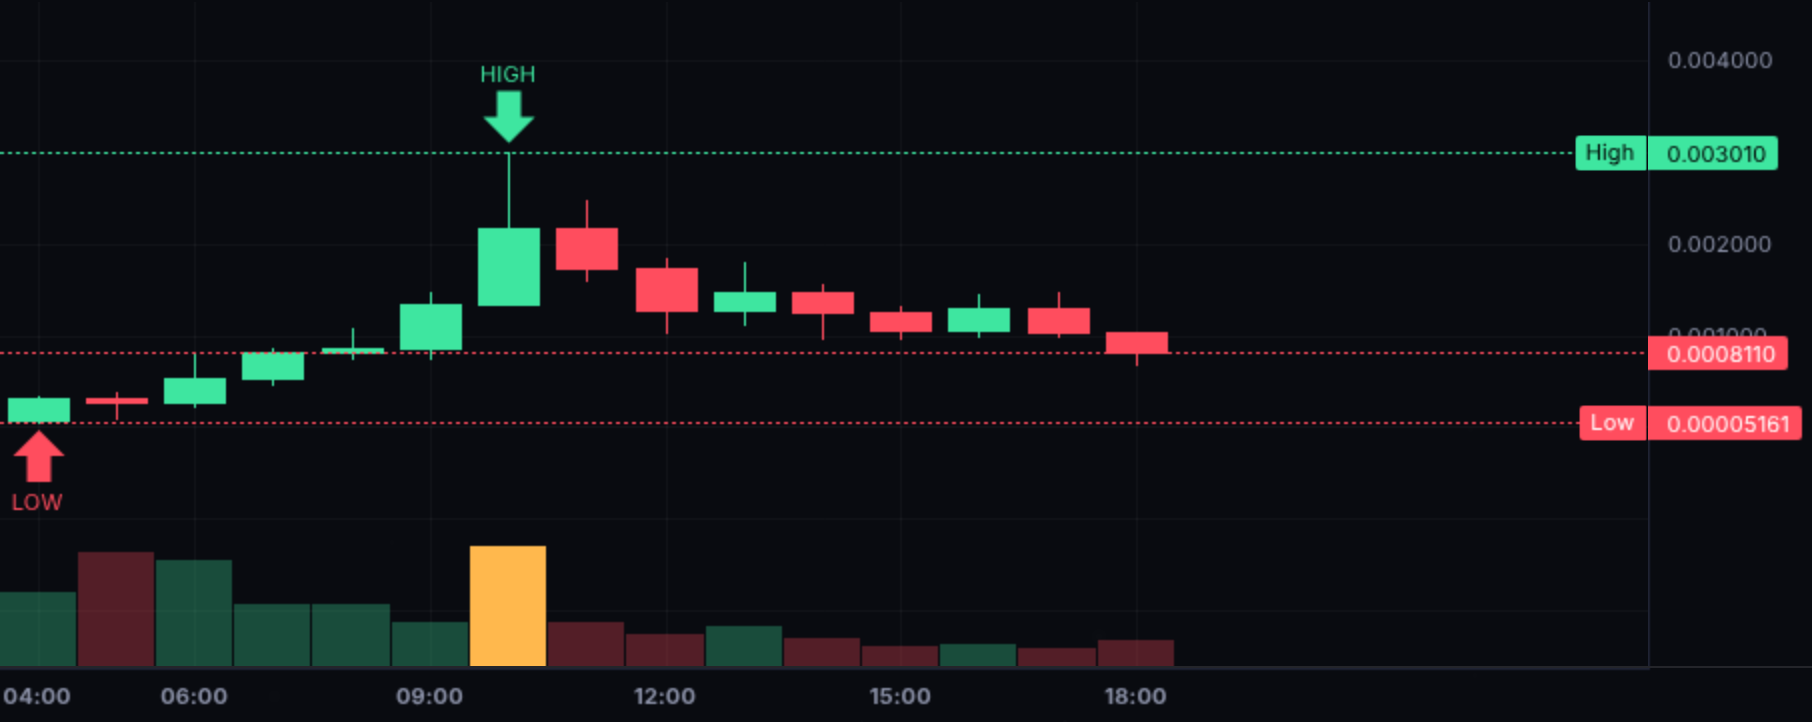
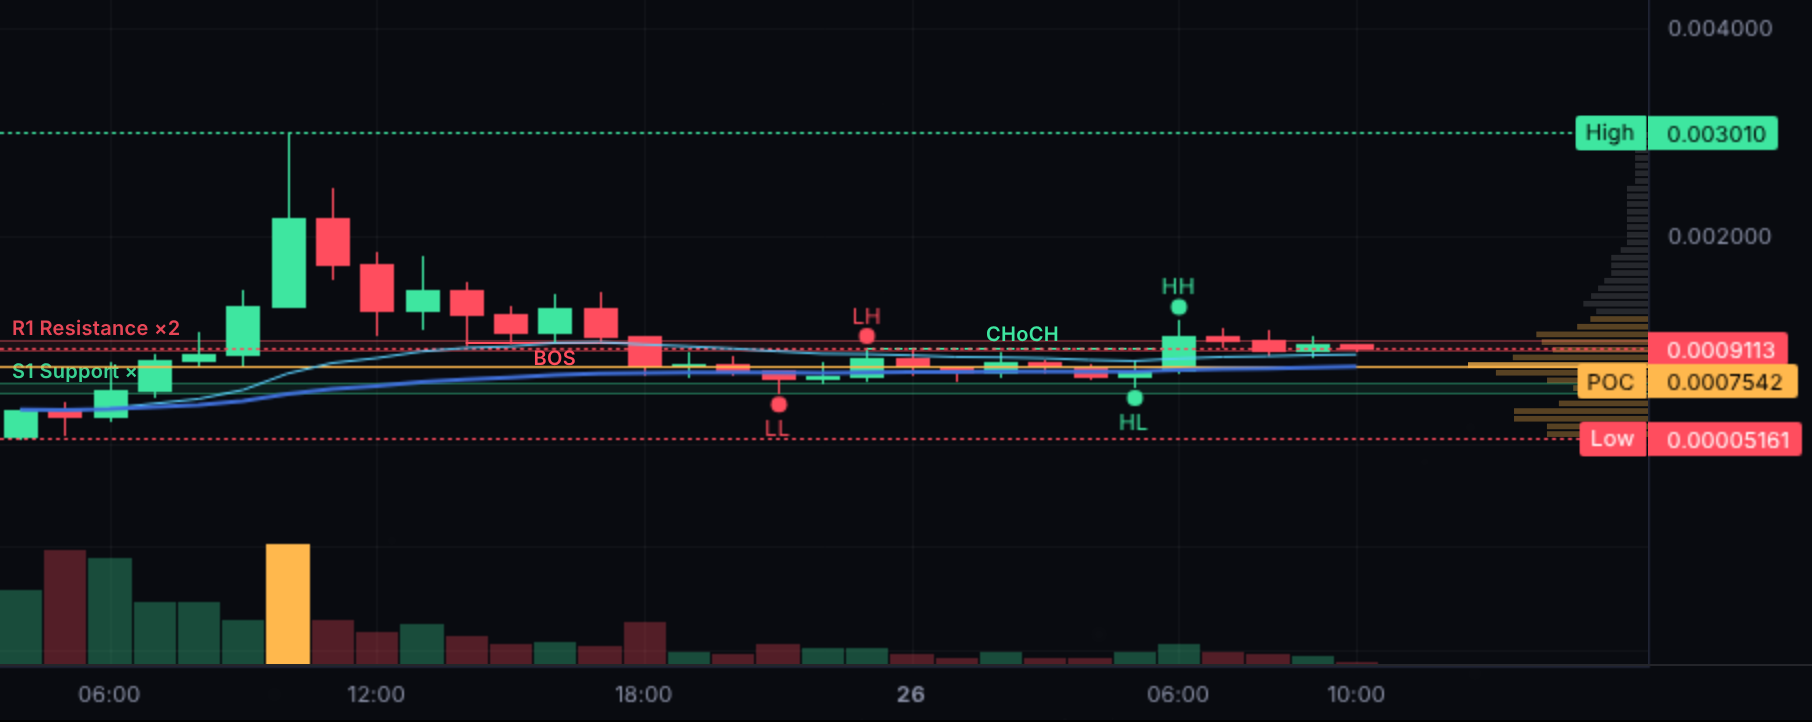
ORBIT Nov 26 catch-up posts: BASKET, Pompom, JIMMY reads + XFeature still
Claude-Session: https://claude.ai/code/session_01SweFj7NrFeNLhhhHUbiQvz

Changed region(s): [[0.0, 0.0914, 1.0, 0.7313], [0.0, 0.7313, 1.0, 0.9751], [0.9272, 0.0305, 0.989, 0.0914]]

diff --git a/remotion/src/orbit/Ad.tsx b/remotion/src/orbit/Ad.tsx
@@ -85,3 +85,44 @@ export const AdSquare: React.FC = () => {
     </AbsoluteFill>
   );
 };
+
+// X post: "Rug check. Smart money. Clear reads." — three real panels from the live app
+const Panel: React.FC<{ label: string; img: string; note: string }> = ({ label, img, note }) => (
+  <div style={{ display: "flex", flexDirection: "column", gap: 16, flex: 1 }}>
+    <Label size={15} color={C.gold}>{label}</Label>
+    <div style={{ borderRadius: 16, overflow: "hidden", border: "1px solid rgba(255,255,255,0.16)", background: "#05060a", boxShadow: "0 30px 90px rgba(0,0,0,0.8), 0 0 60px rgba(140,120,255,0.12)" }}>
+      <Img src={staticFile(img)} style={{ width: "100%", display: "block" }} />
+    </div>
+    <div style={{ fontFamily: F.thin, fontWeight: 400, fontSize: 19, color: C.ink2, lineHeight: 1.35 }}>{note}</div>
+  </div>
+);
+
+export const XFeature: React.FC = () => {
+  const { width } = useVideoConfig();
+  return (
+    <AbsoluteFill style={{ background: C.void }}>
+      <Stars density={1} k={width / 1400} />
+      <AbsoluteFill style={{ background: "radial-gradient(ellipse at 50% 0%, rgba(140,120,255,0.12), rgba(0,0,0,0) 55%)" }} />
+      <div style={{ position: "absolute", right: -60, top: -150, opacity: 0.5 }}>
+        <Galaxy size={460} t={420} glow={1.2} sat={2.5} />
+      </div>
+      <div style={{ position: "absolute", left: 80, top: 60, display: "flex", gap: 22, alignItems: "baseline" }}>
+        <Wide size={26} track={0.42} style={{ textAlign: "left", paddingLeft: 0 }}>Orbit</Wide>
+        <Label size={13}>Solana coin intelligence</Label>
+      </div>
+      <div style={{ position: "absolute", left: 80, right: 80, top: 130, fontFamily: F.thin, fontWeight: 300, fontSize: 62, color: C.ink, lineHeight: 1.1 }}>
+        Rug check. Smart money. Clear reads.
+        <div style={{ fontSize: 26, color: C.ink2, marginTop: 12 }}>All in one place.</div>
+      </div>
+      <div style={{ position: "absolute", left: 80, right: 80, top: 330, display: "flex", gap: 36, alignItems: "flex-start" }}>
+        <Panel label="Rug check" img="orbit/daily/feat-rug.png" note="Sell test, LP lock, top holders and dev wallet in seconds." />
+        <Panel label="Smart money" img="orbit/daily/feat-whales.png" note="Every whale buy and sell, with the wallet behind it." />
+        <Panel label="Clear reads" img="orbit/daily/feat-read-top.png" note="Bias, key levels and what to watch on any chart." />
+      </div>
+      <div style={{ position: "absolute", left: 80, bottom: 52 }}>
+        <Cta size={17} />
+      </div>
+      <Label size={12} color={C.faint} style={{ position: "absolute", right: 80, bottom: 60 }}>Pro free for 7 days · not financial advice</Label>
+    </AbsoluteFill>
+  );
+};

diff --git a/remotion/src/Root.tsx b/remotion/src/Root.tsx
@@ -6,7 +6,7 @@ import { OrbitLaunch, LAUNCH_FRAMES } from "./orbit/Launch";
 import { OrbitTutorial, TUTORIAL_FRAMES } from "./orbit/Tutorial";
 import { OrbitUpdate, UPDATE_FRAMES } from "./orbit/Update";
 import { OrbitPromo1, PROMO1_FRAMES } from "./orbit/Promo";
-import { AdSquare, AdWide } from "./orbit/Ad";
+import { AdSquare, AdWide, XFeature } from "./orbit/Ad";
 import { XDailyBoard, XReadCard, type DailyProps } from "./orbit/DailyX";
 import { PkgCardPro, PkgCardUltra, PkgProVideo, PkgUltraVideo, pkgFrames } from "./orbit/Package";
 import { BrandAvatar, BrandAvatarWord, BrandHero, BrandHeroClean, BrandBot, BrandOG, BrandXHeader } from "./orbit/Brand";
@@ -39,6 +39,7 @@ export const Root = () => (
     <Still id="XReadCard" component={XReadCard} width={1600} height={900} defaultProps={{ date: "", reads: [], index: 0 } as DailyProps} />
     <Still id="AdWide" component={AdWide} width={1600} height={900} />
     <Still id="AdSquare" component={AdSquare} width={1080} height={1080} />
+    <Still id="XFeature" component={XFeature} width={1600} height={900} />
     <Composition id="OrbitPromo1" component={OrbitPromo1} durationInFrames={PROMO1_FRAMES} fps={30} width={1080} height={1920} />
     <Composition id="OrbitUpdate" component={OrbitUpdate} durationInFrames={UPDATE_FRAMES} fps={30} width={1080} height={1920} />
     <Still id="BrandOG" component={BrandOG} width={2400} height={1260} />
